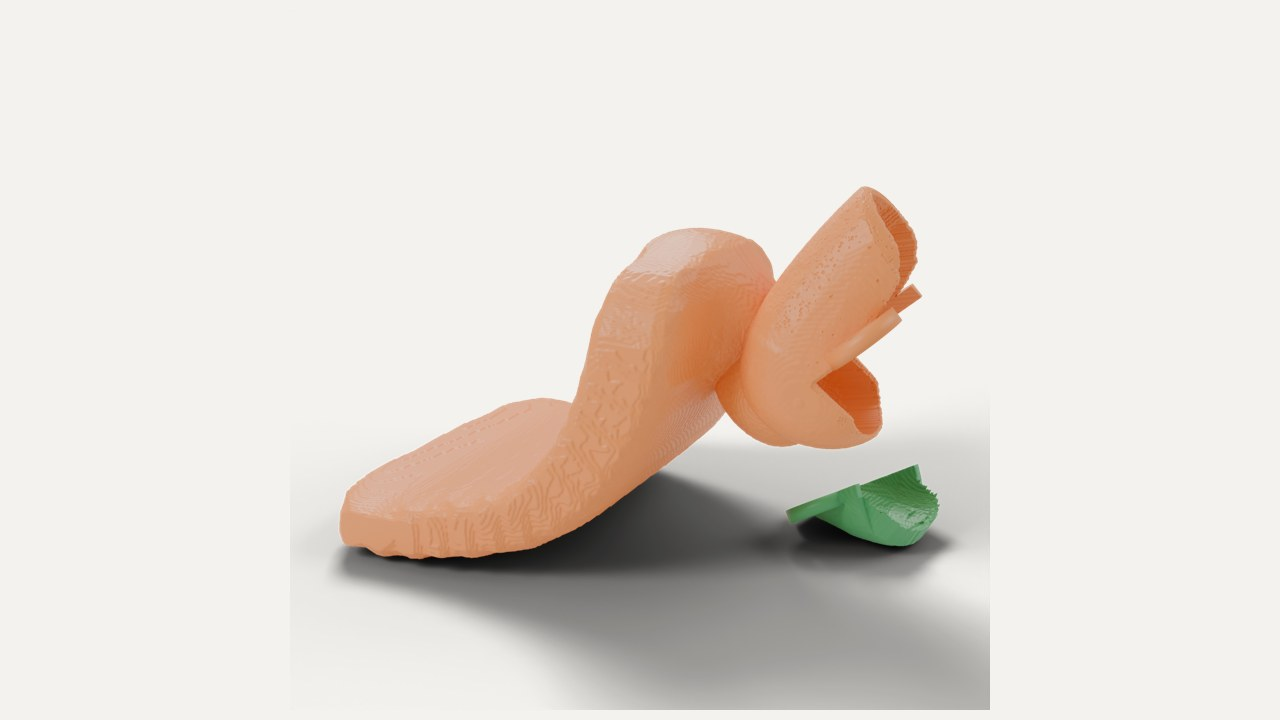
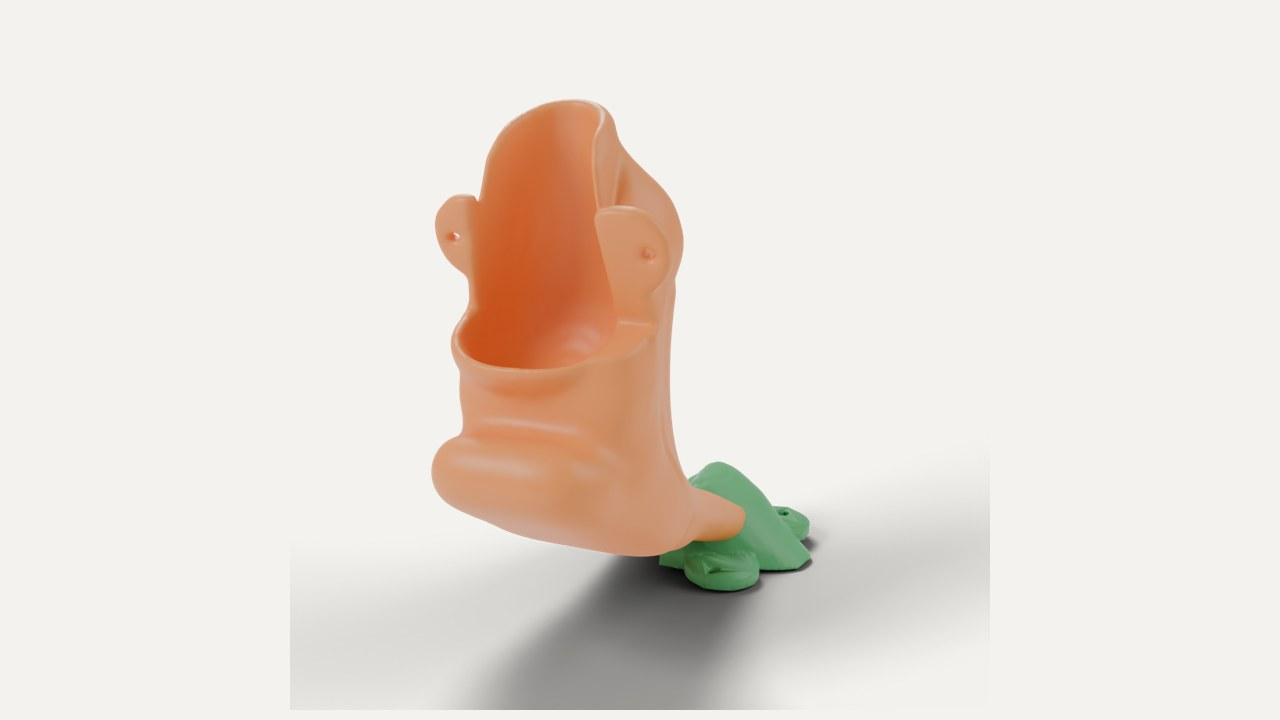
Real world: printed-part renders = the bladepro boot used on the robot and the scoop bolted on the stock gripper (side view)

Changed region(s): [[0.25, 0.1222, 0.7812, 1.0]]

diff --git a/index.html b/index.html
@@ -399,11 +399,11 @@
                 </div>
             </div>
             <div class="demo-card design">
-                <img src="figures/real/boot_print.jpg" alt="Blender render of the printed Go2 kicking boot (orange) and its green back piece" loading="lazy">
+                <img src="figures/real/boot_print.jpg?v=2" alt="Blender render of the printed prosthetic blade boot (orange) and its green back piece" loading="lazy">
                 <div class="card-body">
                     <div class="step">3 &middot; Printed part</div>
                     <div class="card-head"><h3>Printed boot</h3><div class="robot">PLA, FDM PRINTED</div></div>
-                    <p>Blender render of the print files: clamshell boot (orange), back piece (green).</p>
+                    <p>Blender render of the print files: prosthetic blade boot (orange), back piece (green).</p>
                 </div>
             </div>
         </div>
@@ -478,11 +478,11 @@
                 </div>
             </div>
             <div class="demo-card design">
-                <img src="figures/real/scoop_print.jpg" alt="Blender render of the printed two-piece scoop: purple jaw mount, orange scoop, two M4 bolts" loading="lazy">
+                <img src="figures/real/scoop_print.jpg?v=2" alt="Blender render of the printed scoop and jaw mount bolted to the stock YAM gripper, side view" loading="lazy">
                 <div class="card-body">
                     <div class="step">3 &middot; Printed part</div>
                     <div class="card-head"><h3>Printed scoop</h3><div class="robot">PLA, FDM PRINTED</div></div>
-                    <p>Blender render of the print files: jaw mount (purple), scoop (orange), two M4 bolts.</p>
+                    <p>Blender render: scoop (orange) and jaw mount (purple) bolted to the stock gripper.</p>
                 </div>
             </div>
         </div>
